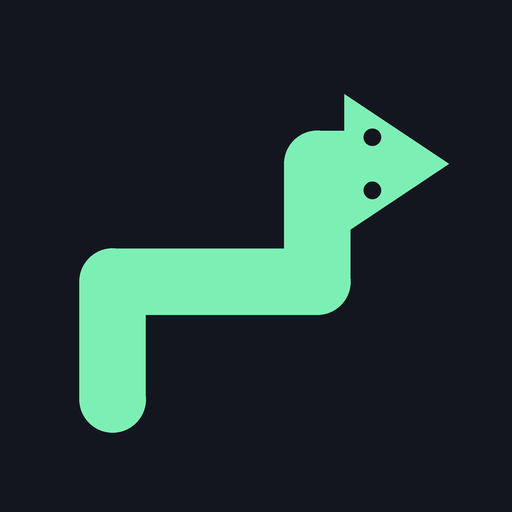
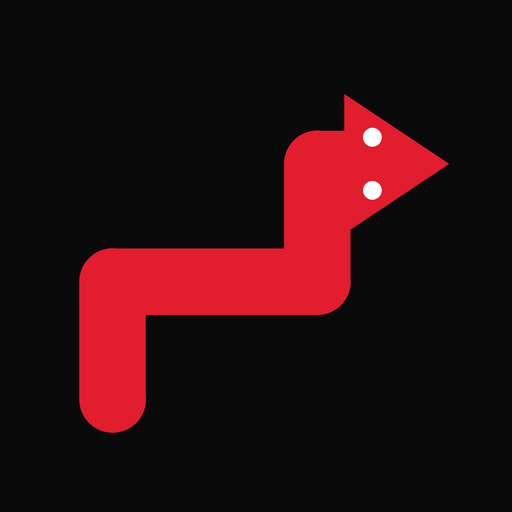
Red, white and black theme
Claude-Session: https://claude.ai/code/session_01EgyRdAEfdU3xMiG9X3zDHq

Changed region(s): [[0.1562, 0.1875, 0.875, 0.8438]]

diff --git a/index.html b/index.html
@@ -5,7 +5,7 @@
 <meta name="viewport" content="width=device-width, initial-scale=1, maximum-scale=1, user-scalable=no, viewport-fit=cover">
 <title>Slither Out</title>
 <link rel="manifest" href="manifest.json">
-<meta name="theme-color" content="#14161f">
+<meta name="theme-color" content="#0a0a0a">
 <link rel="icon" href="icon-192.png">
 <link rel="apple-touch-icon" href="apple-touch-icon.png">
 <meta name="apple-mobile-web-app-capable" content="yes">
@@ -13,7 +13,7 @@
 <meta name="apple-mobile-web-app-title" content="Slither Out">
 <meta name="apple-mobile-web-app-status-bar-style" content="black-translucent">
 <style>
-  :root{--bg:#14161f;--card:#1c2030;--btn:#2b3149;--txt:#eef1f8;--dim:#8a91aa;--accent:#7cf0b4;--red:#ff4d6a}
+  :root{--bg:#0a0a0a;--card:#161616;--btn:#242424;--txt:#ffffff;--dim:#9a9a9a;--accent:#e11d2e;--red:#e11d2e}
   *{box-sizing:border-box;-webkit-tap-highlight-color:transparent}
   html,body{margin:0;height:100%;background:var(--bg);color:var(--txt);overflow:hidden;overscroll-behavior:none;touch-action:none;
     font-family:ui-rounded,"SF Pro Rounded",system-ui,-apple-system,"Segoe UI",Roboto,sans-serif;user-select:none;-webkit-user-select:none;-webkit-touch-callout:none}
@@ -27,22 +27,22 @@
   #bar{display:flex;align-items:center;gap:10px;height:56px;flex:none}
   .ico{width:48px;height:48px;border-radius:50%;background:var(--btn);display:grid;place-items:center;position:relative;flex:none}
   .ico svg{width:24px;height:24px;fill:none;stroke:var(--txt);stroke-width:2.4;stroke-linecap:round;stroke-linejoin:round}
-  .badge{position:absolute;top:-3px;right:-3px;background:var(--accent);color:#0b2418;font-size:12px;font-weight:800;min-width:20px;height:20px;border-radius:10px;display:grid;place-items:center;padding:0 5px}
+  .badge{position:absolute;top:-3px;right:-3px;background:var(--accent);color:#fff;font-size:12px;font-weight:800;min-width:20px;height:20px;border-radius:10px;display:grid;place-items:center;padding:0 5px}
   #hearts{flex:1;display:flex;justify-content:center;gap:6px}
   #hearts svg{width:30px;height:30px}
-  #prog{height:8px;border-radius:4px;background:#262b3d;margin:12px 4px 4px;overflow:hidden;flex:none}
+  #prog{height:8px;border-radius:4px;background:#262626;margin:12px 4px 4px;overflow:hidden;flex:none}
   #progFill{height:100%;width:0;background:var(--accent);border-radius:4px;transition:width .3s}
   #lvlLabel{text-align:center;color:var(--dim);font-weight:700;font-size:13px;letter-spacing:.12em;margin-top:6px;flex:none}
   #stage{flex:1;position:relative;min-height:0}
   canvas{position:absolute;inset:0;width:100%;height:100%}
 
   /* home */
-  #home{align-items:center;justify-content:center;text-align:center;background:radial-gradient(120% 70% at 50% 0%,#23293f 0%,var(--bg) 60%)}
+  #home{align-items:center;justify-content:center;text-align:center;background:radial-gradient(120% 70% at 50% 0%,#3a0a10 0%,var(--bg) 60%)}
   #home img{width:120px;height:120px;border-radius:28px;box-shadow:0 12px 40px rgba(0,0,0,.5)}
   #home h1{font-size:40px;margin:22px 0 4px;letter-spacing:.02em}
   #home .sub{color:var(--dim);font-weight:700;margin:0 0 34px;font-size:16px}
-  .big{width:min(320px,80vw);height:62px;border-radius:31px;background:var(--accent);color:#0b2418;font-size:22px;font-weight:800;box-shadow:0 6px 0 #4fb685}
-  .big:active{transform:translateY(4px);box-shadow:0 2px 0 #4fb685}
+  .big{width:min(320px,80vw);height:62px;border-radius:31px;background:var(--accent);color:#fff;font-size:22px;font-weight:800;box-shadow:0 6px 0 #8f0f1b}
+  .big:active{transform:translateY(4px);box-shadow:0 2px 0 #8f0f1b}
   .row{display:flex;gap:12px;margin-top:16px;width:min(320px,80vw)}
   .pill{flex:1;height:52px;border-radius:26px;background:var(--btn);font-weight:700;font-size:16px;display:flex;align-items:center;justify-content:center;gap:8px}
   .pill svg{width:20px;height:20px;fill:none;stroke:var(--txt);stroke-width:2.4;stroke-linecap:round;stroke-linejoin:round}
@@ -109,7 +109,7 @@
 const $=id=>document.getElementById(id);
 const cv=$('c'),ctx=cv.getContext('2d');
 const DIRS=[[-1,0],[0,1],[1,0],[0,-1]]; // up,right,down,left
-const SNAKE='#eef1f8';
+const SNAKE='#ffffff';
 const HEART='<svg viewBox="0 0 24 24"><path fill="FILL" d="M12 21s-7.5-4.6-9.6-9.2C1 8.6 3 5 6.6 5c2.1 0 3.6 1.2 5.4 3.2C13.8 6.2 15.3 5 17.4 5 21 5 23 8.6 21.6 11.8 19.5 16.4 12 21 12 21z"/></svg>';
 
 let level=1; try{level=+localStorage.getItem('so_level')||1}catch(e){}
@@ -173,7 +173,7 @@ window.addEventListener('resize',layout);
 function updateHud(){
   $('lvlLabel').textContent='LEVEL '+level;
   $('homeLvl').textContent='Level '+level;
-  let h='';for(let i=0;i<3;i++)h+=HEART.replace('FILL',i<hearts?'#ff4d6a':'#3a3f55');
+  let h='';for(let i=0;i<3;i++)h+=HEART.replace('FILL',i<hearts?'#e11d2e':'#333333');
   $('hearts').innerHTML=h;
   $('hintN').textContent=hints;
   $('hint').style.opacity=hints?1:.45;
@@ -253,12 +253,11 @@ function drawPiece(p,now){
   pts.push(pt(path,f1));
   let sx=0,sy=0,col=SNAKE;
   const bt=now-p.bump;
-  if(bt<380){const a=Math.sin(bt/380*Math.PI*4)*cs*0.12*(1-bt/380);sx=DIRS[p.d][1]*a;sy=DIRS[p.d][0]*a;col='#ff4d6a'}
+  if(bt<380){const a=Math.sin(bt/380*Math.PI*4)*cs*0.12*(1-bt/380);sx=DIRS[p.d][1]*a;sy=DIRS[p.d][0]*a;col='#e11d2e'}
   const glow=p.id===hintPiece&&now<hintUntil;
-  if(glow)col='#7cf0b4';
   ctx.save();ctx.translate(sx,sy);
   ctx.lineCap='round';ctx.lineJoin='round';
-  if(glow){ctx.shadowColor='#7cf0b4';ctx.shadowBlur=16+8*Math.sin(now/120)}
+  if(glow){ctx.shadowColor='#e11d2e';ctx.shadowBlur=22+10*Math.sin(now/120)}
   ctx.strokeStyle=col;ctx.lineWidth=cs*0.3;
   const [hx,hy]=pts[pts.length-1],[dr,dc]=DIRS[p.d];
   ctx.beginPath();ctx.moveTo(pts[0][0],pts[0][1]);
@@ -271,7 +270,7 @@ function drawPiece(p,now){
   ctx.lineTo(hx+dr*hs-dc*hs*0.2,hy-dc*hs-dr*hs*0.2);
   ctx.closePath();ctx.fill();
   ctx.shadowBlur=0;
-  ctx.fillStyle='#14161f';
+  ctx.fillStyle='#0a0a0a';
   const ex=dc*hs*0.22,ey=dr*hs*0.22,px=-dr*hs*0.36,py=dc*hs*0.36,er=Math.max(1.5,cs*0.045);
   ctx.beginPath();ctx.arc(hx+ex+px,hy+ey+py,er,0,7);ctx.arc(hx+ex-px,hy+ey-py,er,0,7);ctx.fill();
   ctx.restore();
@@ -286,8 +285,8 @@ function loop(now){
     for(let r=0;r<R;r++)for(let c=0;c<C;c++){ctx.beginPath();ctx.arc(ox+(c+.5)*cs,oy+(r+.5)*cs,cs*0.05,0,7);ctx.fill()}
     for(let r=0;r<R;r++)for(let c=0;c<C;c++)if(grid[idx(r,c)]===-2){
       const x=ox+c*cs+cs*0.14,y=oy+r*cs+cs*0.14,s=cs*0.72;
-      ctx.fillStyle='#3d4358';ctx.beginPath();ctx.roundRect?ctx.roundRect(x,y,s,s,cs*0.22):ctx.rect(x,y,s,s);ctx.fill();
-      ctx.fillStyle='#50576f';ctx.beginPath();ctx.arc(x+s*0.35,y+s*0.35,s*0.15,0,7);ctx.fill();
+      ctx.fillStyle='#3a3a3a';ctx.beginPath();ctx.roundRect?ctx.roundRect(x,y,s,s,cs*0.22):ctx.rect(x,y,s,s);ctx.fill();
+      ctx.fillStyle='#4d4d4d';ctx.beginPath();ctx.arc(x+s*0.35,y+s*0.35,s*0.15,0,7);ctx.fill();
     }
     let left=0;
     for(const p of pieces){

diff --git a/sw.js b/sw.js
@@ -1,5 +1,5 @@
 // Bump VERSION whenever the game files change so players get the update.
-const VERSION = 'slither-v3';
+const VERSION = 'slither-v4';
 const FILES = ['./', './index.html', './manifest.json', './icon-192.png', './icon-512.png', './icon-maskable-512.png', './apple-touch-icon.png'];
 
 self.addEventListener('install', e => {
